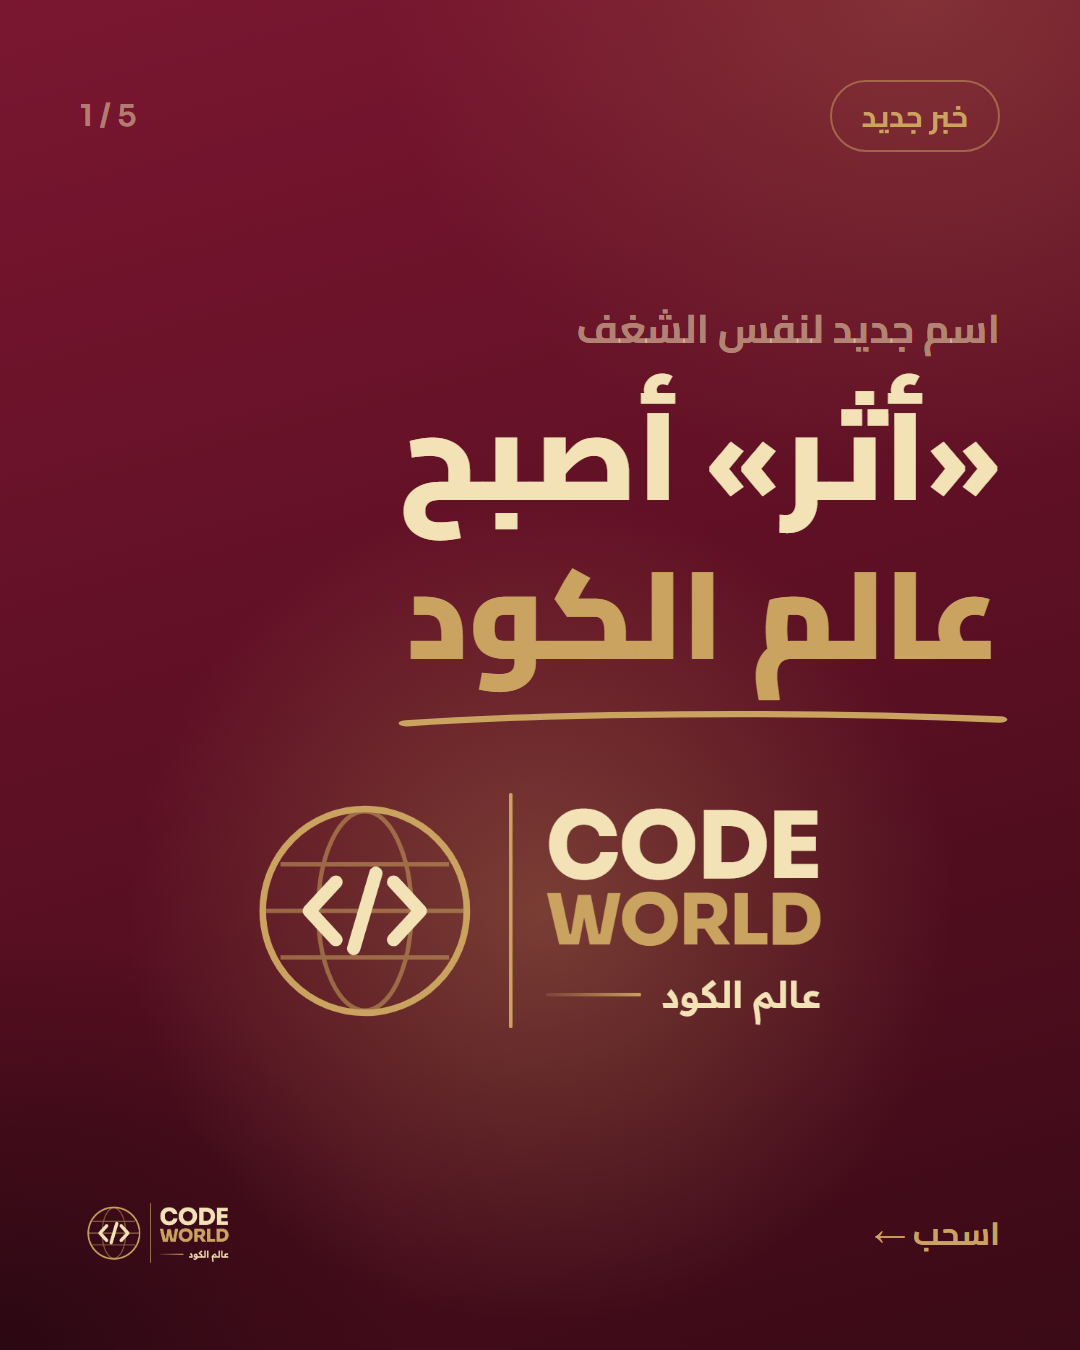
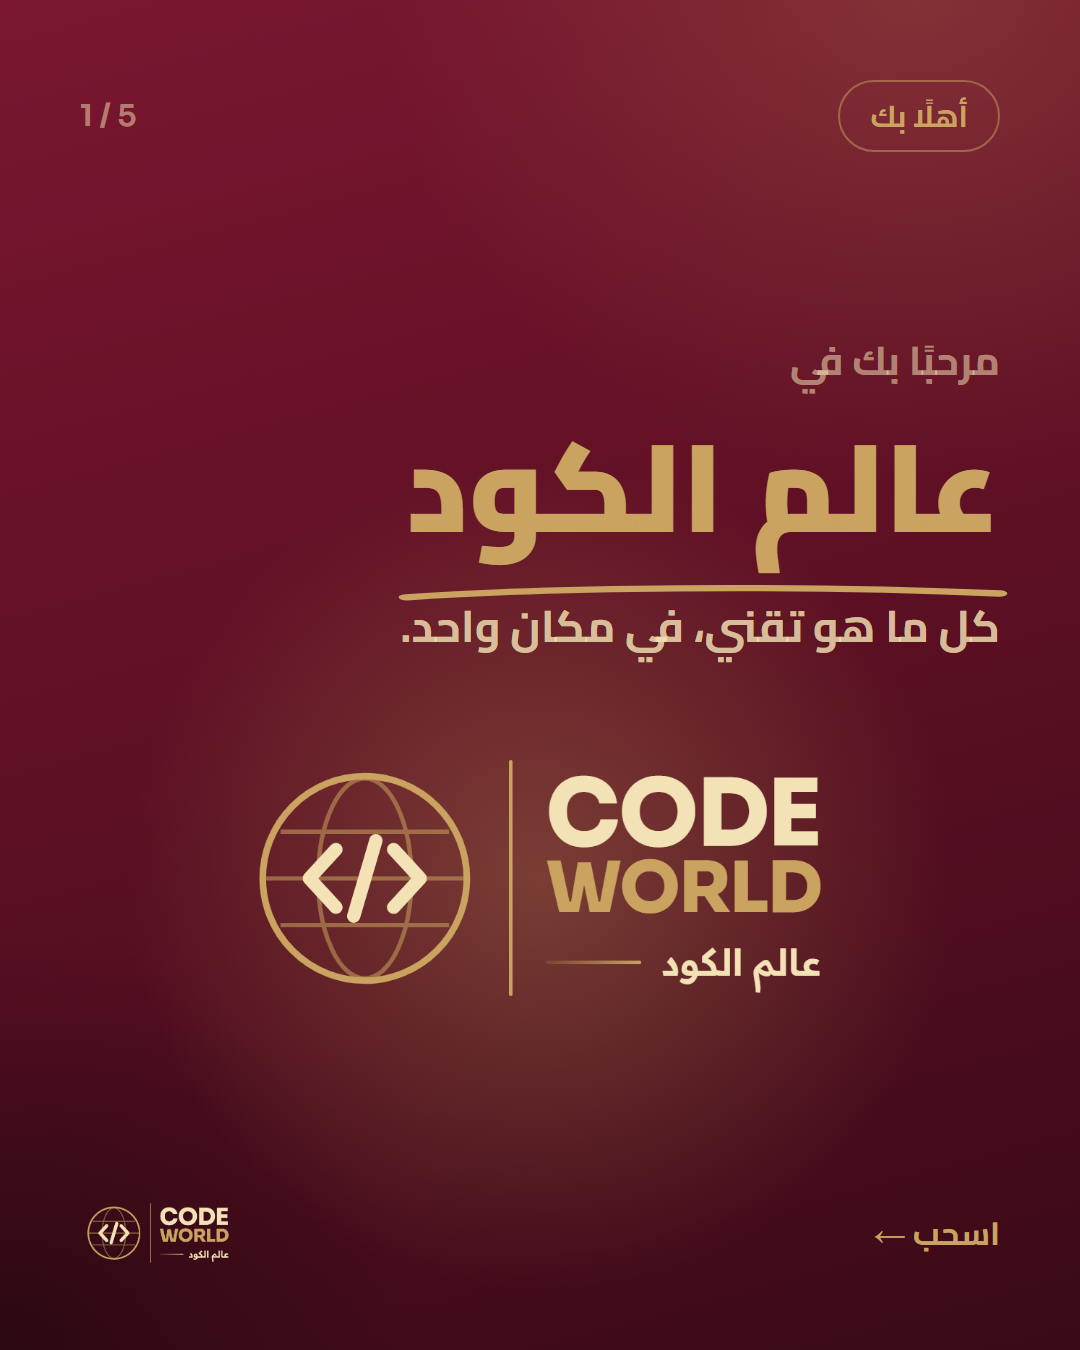
Drop every mention of the old name from stories, intro carousel and invoice CSS

Changed region(s): [[0.2139, 0.2178, 0.9472, 0.7778], [0.7639, 0.0622, 0.9167, 0.1244], [0.7639, 0.5289, 0.9167, 0.56]]

diff --git a/brand/instagram/code-world-stories/stories.html b/brand/instagram/code-world-stories/stories.html
@@ -106,6 +106,7 @@ const I = {
   link: '<path d="M10 13a5 5 0 0 0 7.54.54l3-3a5 5 0 0 0-7.07-7.07l-1.72 1.71"/><path d="M14 11a5 5 0 0 0-7.54-.54l-3 3a5 5 0 0 0 7.07 7.07l1.71-1.71"/>',
   pin: '<path d="M20 10c0 6-8 12-8 12s-8-6-8-12a8 8 0 0 1 16 0Z"/><circle cx="12" cy="10" r="3"/>',
   palette: '<circle cx="12" cy="12" r="10"/><circle cx="8" cy="10" r="1.5"/><circle cx="12" cy="7" r="1.5"/><circle cx="16" cy="10" r="1.5"/><circle cx="15" cy="15" r="1.5"/>',
+  clock: '<circle cx="12" cy="12" r="10"/><path d="M12 6v6l4 2"/>',
   sparkles: '<path d="M9.94 15.5A2 2 0 0 0 8.5 14.06l-6.13-1.58a.5.5 0 0 1 0-.96L8.5 9.94A2 2 0 0 0 9.94 8.5l1.58-6.13a.5.5 0 0 1 .96 0L14.06 8.5A2 2 0 0 0 15.5 9.94l6.13 1.58a.5.5 0 0 1 0 .96L15.5 14.06a2 2 0 0 0-1.44 1.44l-1.58 6.13a.5.5 0 0 1-.96 0z"/>',
   briefcase: '<rect width="20" height="14" x="2" y="7" rx="2"/><path d="M16 21V5a2 2 0 0 0-2-2h-4a2 2 0 0 0-2 2v16"/>',
   route: '<circle cx="6" cy="19" r="3"/><path d="M9 19h8.5a3.5 3.5 0 0 0 0-7h-11a3.5 3.5 0 0 1 0-7H15"/><circle cx="18" cy="5" r="3"/>',
@@ -147,22 +148,24 @@ const story = (pill, body) => `<div class="bar"><img class="mini" src="${LOGO}">
   <div class="body">${body}</div><div class="handle">@codeworld.qa</div>`;
 
 const ST = {
-  "new-1": () => story("جديدنا", `
-    <div class="label">اسم جديد لنفس الشغف</div>
-    <h1>«أثر» أصبح<br><span class="hl">عالم الكود</span></h1>
+  "new-1": () => story("من نحن", `
+    <div class="label">مرحبًا بك في</div>
+    <h1><span class="hl">عالم الكود</span></h1>
+    <p class="p" style="margin-top:30px">كل ما هو تقني، في مكان واحد.</p>
     <div style="position:relative;align-self:center;margin-top:110px">
       <div class="glow" style="width:1000px;height:1000px"></div>
       <img src="${LOGO}" style="width:700px;display:block">
     </div>`),
-  "new-2": () => story("جديدنا", `
-    <h2>الاسم فقط..<br>والباقي <span class="hl">كما هو</span></h2>
+  "new-2": () => story("من نحن", `
+    <div class="label">لماذا عالم الكود؟</div>
+    <h2>ما الذي<br><span class="hl">يميّزنا</span>؟</h2>
     <div class="cards">
-      <div class="card">${ic("users")}<b>نفس الفريق</b><span>من أول محادثة للإطلاق</span></div>
-      <div class="card">${ic("shield")}<b>نفس الجودة</b><span>تصميم عربي أصيل</span></div>
-      <div class="card">${ic("phone")}<b>نفس الرقم</b><span style="font-family:Sora;direction:ltr;display:block;text-align:right">6648 8228</span></div>
-      <div class="card">${ic("buoy")}<b>نفس الدعم</b><span>بعد التسليم أيضًا</span></div>
+      <div class="card">${ic("pen")}<b>تصميم عربي</b><span>أصيل ويليق بهويتك</span></div>
+      <div class="card">${ic("clock")}<b>التزام بالمواعيد</b><span>نسلّم في الوقت</span></div>
+      <div class="card">${ic("phone")}<b>تواصل مباشر</b><span>بدون وسطاء</span></div>
+      <div class="card">${ic("buoy")}<b>دعم بعد التسليم</b><span>نبقى معك</span></div>
     </div>`),
-  "new-3": () => story("جديدنا", `<div style="text-align:center;display:flex;flex-direction:column;align-items:center">
+  "new-3": () => story("من نحن", `<div style="text-align:center;display:flex;flex-direction:column;align-items:center">
     <div style="position:relative">
       <div class="glow" style="width:960px;height:960px"></div>
       <img src="${GLOBE}" style="width:460px;display:block">

diff --git a/brand/instagram/code-world-launch/announce.html b/brand/instagram/code-world-launch/announce.html
@@ -62,6 +62,7 @@ const I = {
   book: '<path d="M2 3h6a4 4 0 0 1 4 4v14a3 3 0 0 0-3-3H2zM22 3h-6a4 4 0 0 0-4 4v14a3 3 0 0 1 3-3h7z"/>',
   slides: '<path d="M2 3h20M21 3v11a2 2 0 0 1-2 2H5a2 2 0 0 1-2-2V3M7 21l5-5 5 5"/>',
   spark: '<path d="M12 3l1.9 5.8L20 10l-6.1 1.2L12 17l-1.9-5.8L4 10l6.1-1.2z"/>',
+  clock: '<circle cx="12" cy="12" r="10"/><path d="M12 6v6l4 2"/>',
   pen: '<path d="M12 19l7-7 3 3-7 7-3-3z"/><path d="M18 13l-1.5-7.5L2 2l3.5 14.5L13 18l5-5z"/><path d="M2 2l7.586 7.586"/><circle cx="11" cy="11" r="2"/>',
 };
 const ic = (k) => `<svg viewBox="0 0 24 24">${I[k]}</svg>`;
@@ -69,10 +70,11 @@ const hdr = (pill) => `<div class="bar"><span class="count">${n} / ${N}</span><s
 const bot = (last) => `<div class="bar"><img class="mini" src="code-world-logo-dark.png">${last ? "" : '<span class="swipe">اسحب ←</span>'}</div>`;
 
 const S = {
-  1: () => `${hdr("خبر جديد")}
+  1: () => `${hdr("أهلًا بك")}
     <div class="body">
-      <div class="label">اسم جديد لنفس الشغف</div>
-      <h1 style="margin-top:10px">«أثر» أصبح<br><span class="hl">عالم الكود</span></h1>
+      <div class="label">مرحبًا بك في</div>
+      <h1 style="margin-top:10px"><span class="hl">عالم الكود</span></h1>
+      <p class="p" style="margin-top:24px">كل ما هو تقني، في مكان واحد.</p>
       <div style="position:relative;margin-top:70px;align-self:center">
         <div class="glow" style="width:900px;height:900px;left:50%;top:50%;transform:translate(-50%,-50%)"></div>
         <img src="code-world-logo-dark.png" style="width:620px;display:block">
@@ -88,14 +90,14 @@ const S = {
         <img src="cw-globe-ondark.svg" style="width:300px;display:block">
       </div>
     </div>${bot()}`,
-  3: () => `${hdr("ماذا تغيّر؟")}
+  3: () => `${hdr("لماذا نحن؟")}
     <div class="body">
-      <h2>الاسم فقط..<br>والباقي <span class="hl">كما هو</span></h2>
+      <h2>ما الذي<br><span class="hl">يميّزنا</span>؟</h2>
       <div class="cards">
-        <div class="card">${ic("users")}<b>نفس الفريق</b><span>من أول محادثة للإطلاق</span></div>
-        <div class="card">${ic("shield")}<b>نفس الجودة</b><span>تصميم عربي أصيل</span></div>
-        <div class="card">${ic("phone")}<b>نفس الرقم</b><span style="font-family:Sora;direction:ltr;display:block;text-align:right">6648 8228</span></div>
-        <div class="card">${ic("buoy")}<b>نفس الدعم</b><span>بعد التسليم أيضًا</span></div>
+        <div class="card">${ic("pen")}<b>تصميم عربي</b><span>أصيل ويليق بهويتك</span></div>
+        <div class="card">${ic("clock")}<b>التزام بالمواعيد</b><span>نسلّم في الوقت</span></div>
+        <div class="card">${ic("phone")}<b>تواصل مباشر</b><span>بدون وسطاء</span></div>
+        <div class="card">${ic("buoy")}<b>دعم بعد التسليم</b><span>نبقى معك</span></div>
       </div>
     </div>${bot()}`,
   4: () => `${hdr("خدماتنا")}

diff --git a/src/components/InvoiceDocument.tsx b/src/components/InvoiceDocument.tsx
@@ -93,7 +93,7 @@ export default function InvoiceDocument({
 
   return (
     <div
-      className="athr-doc"
+      className="cw-doc"
       dir="rtl"
       style={{
         width: "210mm",
@@ -107,7 +107,7 @@ export default function InvoiceDocument({
         boxShadow: "0 20px 60px rgba(74,14,30,.15)",
       }}
     >
-      <style>{`@media print { .athr-doc { display:block!important; min-height:0!important; } .athr-doc thead { display:table-header-group; } .athr-doc tr { break-inside:avoid; } .athr-doc td { overflow-wrap:anywhere; } }`}</style>
+      <style>{`@media print { .cw-doc { display:block!important; min-height:0!important; } .cw-doc thead { display:table-header-group; } .cw-doc tr { break-inside:avoid; } .cw-doc td { overflow-wrap:anywhere; } }`}</style>
       {/* Header */}
       <div
         style={{

diff --git a/src/pages/DocPrint.tsx b/src/pages/DocPrint.tsx
@@ -71,7 +71,7 @@ function DocView() {
           body { background: #fff !important; }
           .no-print { display: none !important; }
           .print-wrap { padding: 0 !important; background: #fff !important; }
-          .athr-doc { box-shadow: none !important; }
+          .cw-doc { box-shadow: none !important; }
           * { -webkit-print-color-adjust: exact; print-color-adjust: exact; }
         }
       `}</style>

diff --git a/brand/instagram/code-world-stories/README.md b/brand/instagram/code-world-stories/README.md
@@ -6,7 +6,7 @@
 
 | الهايلايت | الغلاف | الستوريز بالترتيب |
 |---|---|---|
-| جديدنا | `highlights/new.png` | new-1، new-2، new-3 |
+| من نحن | `highlights/new.png` | new-1، new-2، new-3 |
 | خدماتنا | `highlights/services.png` | services-0، ثم services-1 إلى services-8 |
 | أعمالنا | `highlights/work.png` | work-0، ثم work-1 إلى work-5 |
 | طريقتنا | `highlights/how.png` | how-1 |
